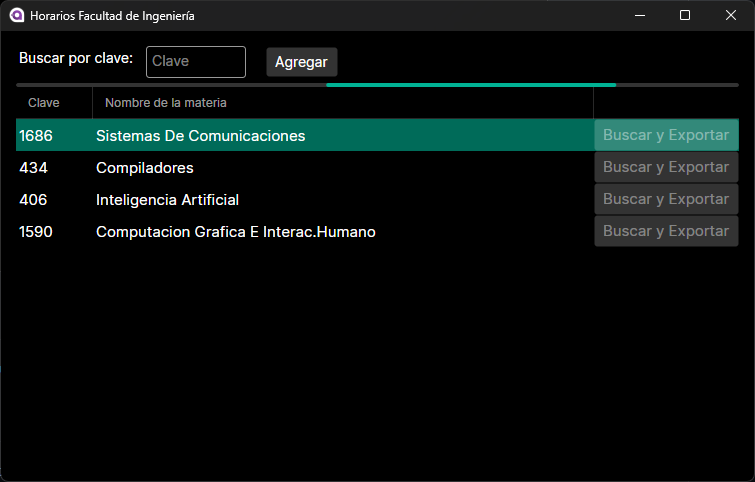
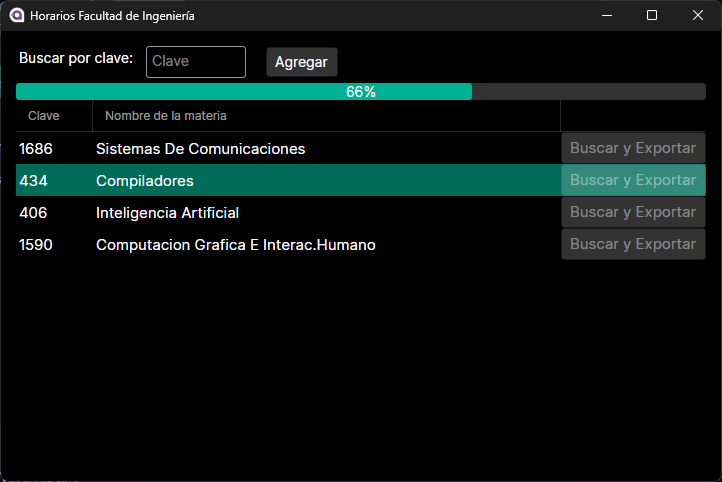
Added progress bar

diff --git a/HorariosFI.App/ViewModels/MainViewModel.cs b/HorariosFI.App/ViewModels/MainViewModel.cs
@@ -1,14 +1,12 @@
-using HorariosFI.App.Models;
+using System;
+using HorariosFI.App.Models;
 using HorariosFI.Core;
 using MsBox.Avalonia;
 using System.Collections.ObjectModel;
 using System.Linq;
-using System.Reactive.Linq;
 using CommunityToolkit.Mvvm.ComponentModel;
 using CommunityToolkit.Mvvm.Input;
 using System.Threading.Tasks;
-using HorariosFI.App.Views;
-using ReactiveUI;
 
 namespace HorariosFI.App.ViewModels;
 
@@ -16,8 +14,8 @@ public partial class MainViewModel : ObservableObject
 {
     [ObservableProperty] private string _clave = "";
     [ObservableProperty] private ObservableCollection<InputClassModel> _classCollection = [];
-    [ObservableProperty] private bool _progreso = false;
-    public Interaction<SchedulesViewModel, string?> SchedulesDialog { get; }
+    [ObservableProperty] private bool _progreso;
+    [ObservableProperty] private int _progresoScrapMp;
 
     public MainViewModel()
     {
@@ -28,8 +26,6 @@ public partial class MainViewModel : ObservableObject
             Nombre = "Estructuras Discretas"
         });
 #endif
-
-        SchedulesDialog = new Interaction<SchedulesViewModel, string?>();
     }
 
     [RelayCommand]
@@ -62,107 +58,33 @@ public partial class MainViewModel : ObservableObject
     [RelayCommand]
     private async Task ViewSchedules(int clave)
     {
-        Progreso = true;
-        var item = ClassCollection.FirstOrDefault(c => c.Clave == clave);
-        if (item is null)
+        try
+        {
+            Progreso = true;
+            var item = ClassCollection.FirstOrDefault(c => c.Clave == clave);
+            if (item is null)
+            {
+                await MessageBoxManager
+                    .GetMessageBoxStandard("Error", $"Clave: {clave} no encontrada en las clases agregadas.")
+                    .ShowAsync();
+                return;
+            }
+
+            item.Horarios ??= await FiScrapper.GetClassShcedules(item.Clave);
+            await MpScrapper.Run(item.Horarios!, new Progress<int>(p => ProgresoScrapMp = p));
+            ExcelExport.Export(item.Clave, item.Nombre ?? "Unknown", item.Horarios);
+            ClassCollection.Remove(item);
+        }
+        catch (Exception e)
         {
             await MessageBoxManager
-                .GetMessageBoxStandard("Error", $"Clave: {clave} no encontrada en las clases agregadas.")
+                .GetMessageBoxStandard("Error", e.ToString())
                 .ShowAsync();
-            return;
         }
-
-        item.Horarios ??= await FiScrapper.GetClassShcedules(item.Clave);
-
-        await MPScrapper.Run(item.Horarios!);
-        ExcelExport.Export(item.Clave, item.Nombre ?? "Unknown", item.Horarios);
-        ClassCollection.Remove(item);
-        Progreso = false;
-    }
-
-    [RelayCommand]
-    private async Task ViewMpInfo(int clave)
-    {
-    }
-
-    private static async void GetClassSchedules(InputClassModel item)
-    {
-        if (item.Horarios is not null) return;
-        item.Horarios = await FiScrapper.GetClassShcedules(item.Clave);
-    }
-
-#if OLD_VER
-    #region Properties
-
-    private string? _clave;
-    private string? _nombreClase;
-    private bool _progreso;
-    public ObservableCollection<InputClassModel> ClassItems { get; set; }
-    public string? Clave { get => _clave; set => this.RaiseAndSetIfChanged(ref _clave, value); }
-    public string? NombreClase { get => _nombreClase; set => this.RaiseAndSetIfChanged(ref _nombreClase, value); }
-    public bool Progreso { get => _progreso; set => this.RaiseAndSetIfChanged(ref _progreso, value); }
-
-    #endregion Properties
-
-    #region Commands
-
-    public ReactiveCommand<Unit, Unit> AddClass { get; }
-    public ReactiveCommand<Unit, Unit> Buscar { get; }
-
-    #endregion Commands
-
-    public MainViewModel()
-    {
-        Progreso = false;
-        ClassItems = new ObservableCollection<InputClassModel>();
-        AddClass = ReactiveCommand.Create(() =>
+        finally
         {
-            if (string.IsNullOrEmpty(Clave) || string.IsNullOrEmpty(NombreClase)) return;
-            if (!int.TryParse(_clave, out int clave)) return;
-
-            ClassItems.Add(new InputClassModel()
-            {
-                Clave = clave,
-                Nombre = _nombreClase
-            });
-
-            Clave = "";
-            NombreClase = "";
-        });
-
-        Buscar = ReactiveCommand.CreateFromTask(async () =>
-        {
-            foreach (var item in ClassItems)
-            {
-                try
-                {
-                    var (clase, errores) = await FIScrapper.GetClassList(item.Clave);
-                    var classdict =
- new Dictionary<string, IEnumerable<ClassModel>>() { { $"{item.Clave}-{item.Nombre}", clase } };
-
-                    var mp = new MPScrapper();
-                    foreach (var cl in classdict)
-                    {
-                        Progreso = true;
-                        await mp.Run(cl.Value);
-                        Progreso = false;
-                    }
-
-                    if (errores.Any())
-                        throw new Exception(string.Join("\n", errores));
-
-                    ExcelExport.Export(classdict);
-                }
-                catch (Exception e)
-                {
-                    Progreso = false;
-                    await MessageBoxManager
-                          .GetMessageBoxStandard("Error", e.ToString(), ButtonEnum.Ok)
-                          .ShowAsync();
-                }
-            }
-            ClassItems.Clear();
-        });
+            ProgresoScrapMp = 0;
+            Progreso = false;
+        }
     }
-#endif
 }

diff --git a/HorariosFI.Core/MPScrapper.cs b/HorariosFI.Core/MPScrapper.cs
@@ -5,7 +5,7 @@ using HorariosFI.Core.Exeptions;
 
 namespace HorariosFI.Core;
 
-public class MPScrapper
+public static class MpScrapper
 {
     private const string MpUrl = "https://www.misprofesores.com/Buscar?buscar=Profesores&q={0}";
 
@@ -23,7 +23,7 @@ public class MPScrapper
     //"//*[@id=\"mainContent\"]/div/div[2]/div[1]/div/div[2]/div[2]/div";
     private const int Timeout = 3;
 
-    public static async Task Run(IEnumerable<ClassModel> classes)
+    public static async Task Run(IList<ClassModel> classes, IProgress<int> progress)
     {
         await Task.Run(() =>
         {
@@ -35,8 +35,12 @@ public class MPScrapper
             using var driver = new ChromeDriver(chromeService, chromeOptions);
 
             var found = new Dictionary<string, ClassModel>();
-            foreach (var classvar in classes)
+            foreach (var (classvar, index) in classes.WithIndex())
             {
+                var p = index * 100 / classes.Count;
+                progress.Report(p);
+                
+                
                 if (found.TryGetValue(classvar.Profesor!, out var value))
                 {
                     Console.WriteLine($"{classvar.Profesor} ya fue buscado.");
